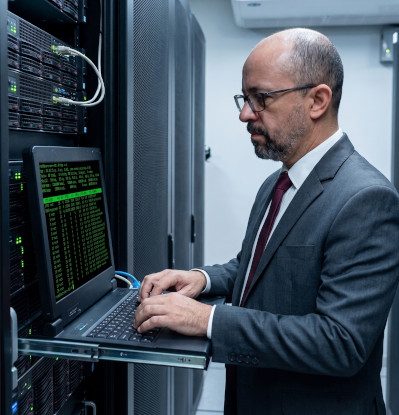
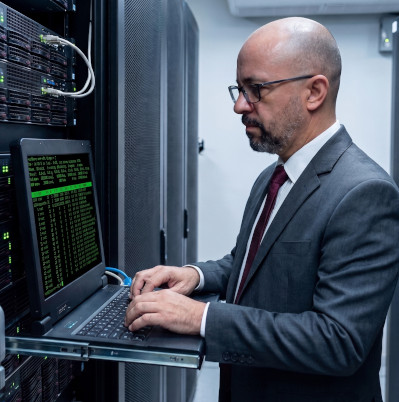
altualização pic

diff --git a/index.html b/index.html
@@ -253,7 +253,7 @@
                                         <span class="icon solid major style4 fa-robot"></span>
                                         <h3>Automação & IA</h3>
                                         <!--<p>Automação Inteligente de Processos Utilizando N8N e Linguagem Python.</p> -->
-                                        <p>Automação de Processos com agentes de IA, N8N e Linguagem Python.</p>
+                                        <p>Automação de Processos com Agentes de IA, N8N e Linguagem Python.</p>
                                     </li>
                                     <!-- Item 6: Análise de Dados -->
                                     <li>
